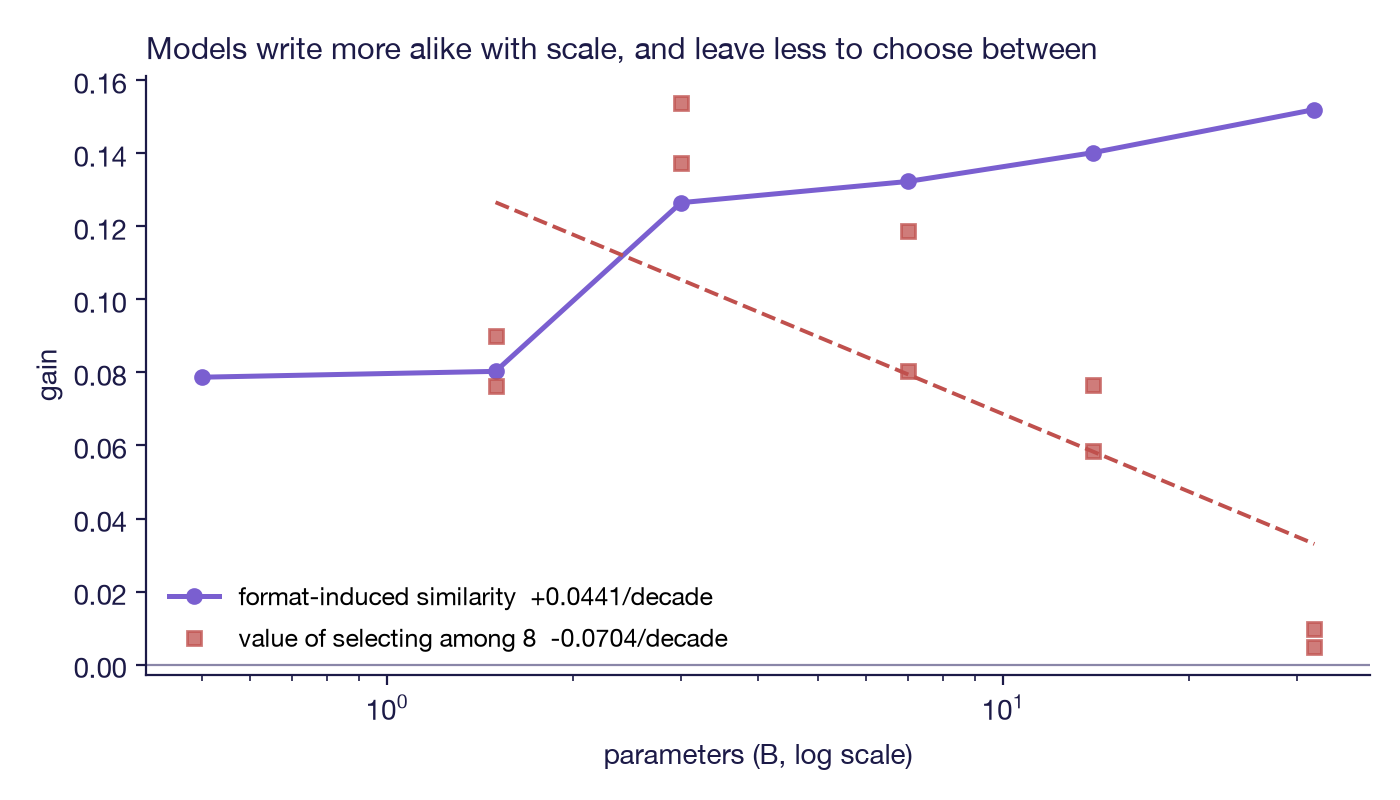
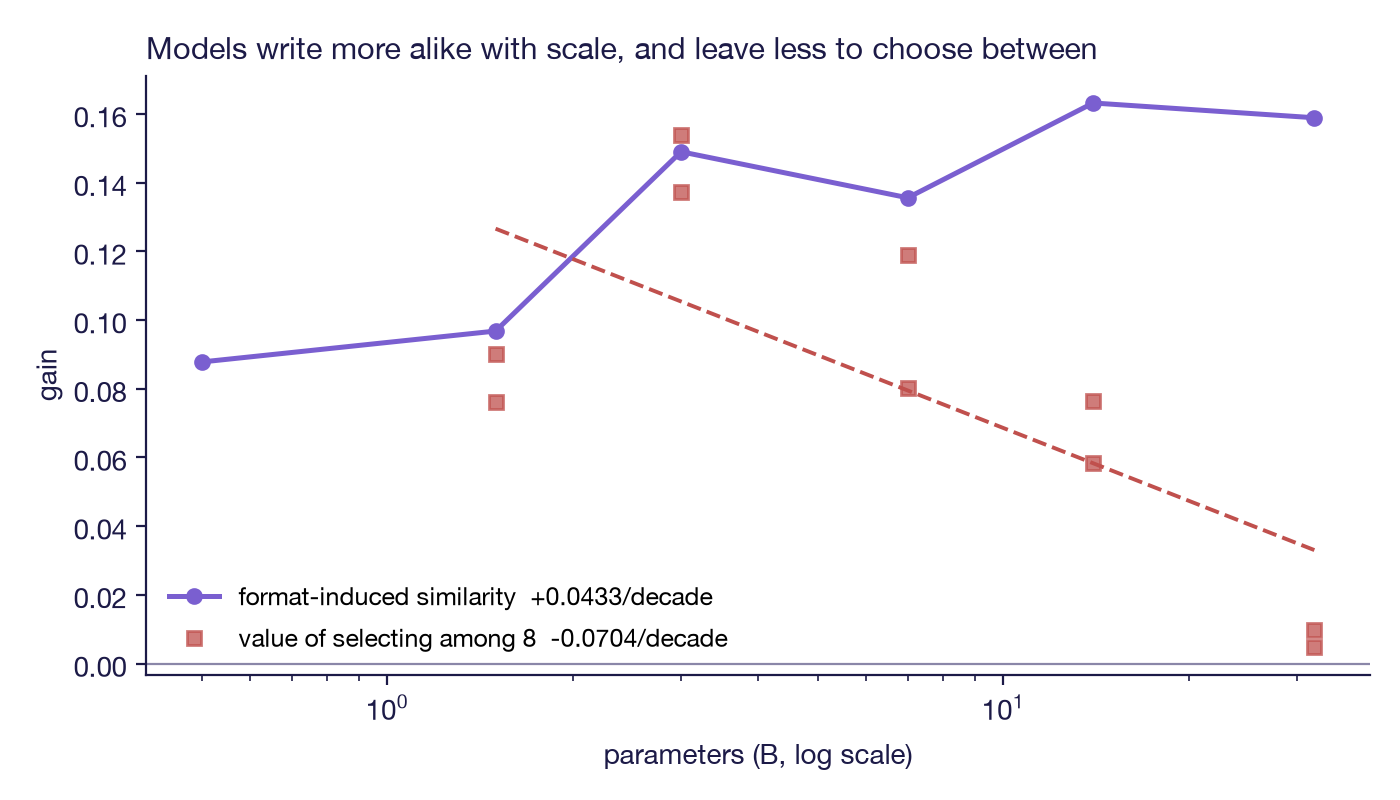
5.4: redraw the crossing from the 1024-token format curve; name each slope's benchmark
fig_scale read format gain from coder_ladder/scaling_curve.json, the 192-token
curve superseded in 5.2. It now reads coder_matrix1024. The selection line was
always MBPP and is clean; the text now says so, and adds the HumanEval selection
slope measured on the same 1024-token pools as the format slope: -0.0676 per
decade against MBPP's -0.0704. Format +0.0433, selection -0.0676 on one pool.
The crossing survives the budget correction.

diff --git a/scripts/make_hivemind_figures.py b/scripts/make_hivemind_figures.py
@@ -105,7 +105,8 @@ def fig_decomposition(out):
 
 def fig_scale(out):
     """Format similarity rises with scale while selection value falls."""
-    curve = load("coder_ladder/scaling_curve.json")
+    # The 192-token coder_ladder curve is superseded; see paper 5.2's budget note.
+    curve = load("coder_matrix1024/scaling_curve.json")
     census = load("hivemind_census.json")
     if not curve or not census:
         return "scale: missing scaling_curve.json or hivemind_census.json"

diff --git a/docs/paper_hivemind_hf.md b/docs/paper_hivemind_hf.md
@@ -547,12 +547,17 @@ the read. The magnitude does, and the read we quote is the most conservative of 
 three. `hivemind_census.json` carries all three.
 
 That is the mirror image of Section 5.2. On HumanEval, format-induced similarity
-grows at +0.0433
-per decade while the value of choosing between samples falls at −0.0704. Larger models
+grows at +0.0433 per decade while the value of choosing between samples falls at
+−0.0704 on MBPP and −0.0676 on HumanEval, the latter measured on the same
+1024-token pools as the format slope. Larger models
 write more alike and leave less to choose between, and both trends point the same way:
 whatever variation the hivemind result measures, scale is removing it.
 
-![The two slopes crossing, on a log parameter axis. Format-induced similarity is one point per rung; selection value is plotted as its ten arms with the fitted line, since two arms share each rung and joining them would imply structure the data does not carry. The fit is loose at r = −0.715, which the scatter shows.](https://raw.githubusercontent.com/space-bacon/SRT/main/arxiv_hivemind/figs/fig2_scale.png)
+![The two slopes crossing, on a log parameter axis. Format-induced similarity is one
+point per rung on HumanEval; selection value is plotted as its ten MBPP arms with the
+fitted line, since two arms share each rung and joining them would imply structure
+the data does not carry. The fit is loose at r = −0.715, which the scatter
+shows.](arxiv_hivemind/figs/fig2_scale.png)
 
 **Pooling six frontier models across five labs buys nothing.** Every read above was
 measured inside one model's pool: eight samples, one lab, one tokenizer. The union

diff --git a/paper_hivemind.md b/paper_hivemind.md
@@ -553,15 +553,16 @@ the read. The magnitude does, and the read we quote is the most conservative of 
 three. `hivemind_census.json` carries all three.
 
 That is the mirror image of Section 5.2. On HumanEval, format-induced similarity
-grows at +0.0433
-per decade while the value of choosing between samples falls at −0.0704. Larger models
+grows at +0.0433 per decade while the value of choosing between samples falls at
+−0.0704 on MBPP and −0.0676 on HumanEval, the latter measured on the same
+1024-token pools as the format slope. Larger models
 write more alike and leave less to choose between, and both trends point the same way:
 whatever variation the hivemind result measures, scale is removing it.
 
 ![The two slopes crossing, on a log parameter axis. Format-induced similarity is one
-point per rung; selection value is plotted as its ten arms with the fitted line,
-since two arms share each rung and joining them would imply structure the data does
-not carry. The fit is loose at r = −0.715, which the scatter
+point per rung on HumanEval; selection value is plotted as its ten MBPP arms with the
+fitted line, since two arms share each rung and joining them would imply structure
+the data does not carry. The fit is loose at r = −0.715, which the scatter
 shows.](arxiv_hivemind/figs/fig2_scale.png)
 
 **Pooling six frontier models across five labs buys nothing.** Every read above was
